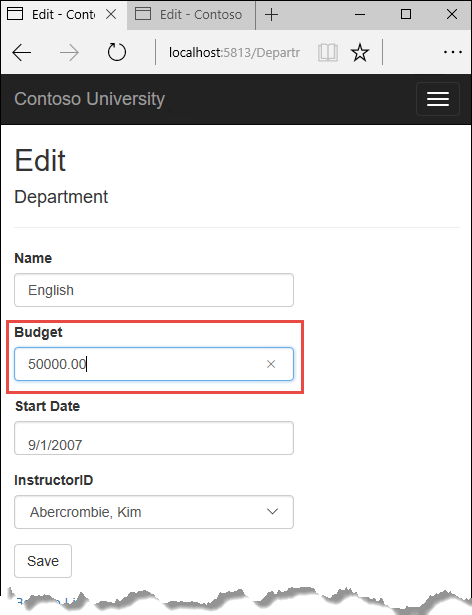
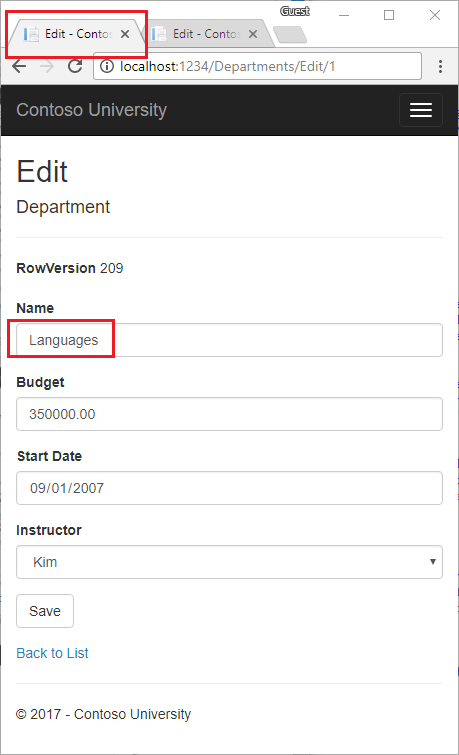
concur

diff --git a/aspnetcore/data/ef-rp/intro/samples/cu/Pages/Departments/Edit.cshtml.cs b/aspnetcore/data/ef-rp/intro/samples/cu/Pages/Departments/Edit.cshtml.cs
@@ -76,11 +76,11 @@ namespace ContosoUniversity.Pages.Departments
                 return await HandleDeletedDepartment();
             }
 
-            // OriginalValue is the current value in the DB when this entity
+            // OriginalValue is the value in the DB when this entity
             // was fetched. OriginalValue == rowVersion unless there is a 
             // concurrency difference. rowVersion is the value when this record
             // was fetched by OnGetAsync and can be stale at this point.
-            // Set .OriginalValue = rowVersion to detect a stale RowVersion,
+            // Set OriginalValue = rowVersion to detect a stale RowVersion,
             // indicating a concurrency problem. A second postback will make 
             // them match, unless a new concurrency issues happens.
             #region snippet_Org
@@ -94,6 +94,7 @@ namespace ContosoUniversity.Pages.Departments
                 "Department",
                 s => s.Name, s => s.StartDate, s => s.Budget, s => s.InstructorID))
             {
+                #region snippet_try
                 try
                 {
                     await _context.SaveChangesAsync();
@@ -120,6 +121,7 @@ namespace ContosoUniversity.Pages.Departments
                     // Must clear the model error for the next postback.
                     ModelState.Remove("Department.RowVersion");
                 }
+                #endregion
             }
 
             InstructorNameSL = new SelectList(_context.Instructors,
@@ -149,6 +151,7 @@ namespace ContosoUniversity.Pages.Departments
             Department.InstructorID = deletedDepartment.InstructorID;
         }
 
+        #region snippet_err
         private async Task setDbErrorMessage(Department dbValues,
                 Department clientValues, SchoolContext context)
         {
@@ -177,12 +180,13 @@ namespace ContosoUniversity.Pages.Departments
             }
 
             ModelState.AddModelError(string.Empty,
-                   "The record you attempted to edit "
-                 + "was modified by another user after you got the original value. The "
-                 + "edit operation was canceled and the current values in the database "
-                 + "have been displayed. If you still want to edit this record, click "
-                 + "the Save button again. Otherwise click the Back to List hyperlink.");
+                "The record you attempted to edit "
+              + "was modified by another user after you. The "
+              + "edit operation was canceled and the current values in the database "
+              + "have been displayed. If you still want to edit this record, click "
+              + "the Save button again.");
         }
+        #endregion
     }
 }
 #endregion

diff --git a/aspnetcore/data/ef-rp/concurrency.md b/aspnetcore/data/ef-rp/concurrency.md
@@ -201,88 +201,90 @@ Update the Index page:
 
 The following markup shows the updated page:
 
-[!code-html[](intro/samples/cu/Pages/Departments/Index.cshtml?highlight=5,8,29,47,50)]
+[!code-cshtml[](intro/samples/cu/Pages/Departments/Index.cshtml?highlight=5,8,29,47,50)]
 
 ### Update the Edit page model
 
 Update *pages\departments\edit.cshtml.cs* with the following code:
 
-[!code-csharp[](intro/samples/cu/Pages/Departments/Index.cshtml.cs?name=snippet)]
+[!code-csharp[](intro/samples/cu/Pages/Departments/Edit.cshtml.cs?name=snippet)]
 
 Examine the `OnPostAsync` signature:
 
-[!code-csharp[](intro/samples/cu/Pages/Departments/Index.cshtml.cs?name=snippet_sig)]
+[!code-csharp[](intro/samples/cu/Pages/Departments/Edit.cshtml.cs?name=snippet_sig)]
 
-The `rowVersion` parameter comes from `<input type="hidden" asp-for="Department.RowVersion" />` in the Razor page. The `rowVersion` parameter is the value when this entity was fetched in `OnGetAsync`. The Db `rowVersion` my differ if this entity has been updated
+The `rowVersion` parameter comes from `<input type="hidden" asp-for="Department.RowVersion" />` in the Razor page. The `rowVersion` parameter is the value when this entity was fetched in `OnGetAsync`. The DB `rowVersion` my differ if this entity has been updated
 after OnGetAsync is called. 
 
+Examine how the `rowVersion` parameter is used:
 
-In both the HttpGet `Edit` method and the `Details` method, add `AsNoTracking`. In the HttpGet `Edit` method, add eager loading for the Administrator.
+[!code-csharp[](intro/samples/cu/Pages/Departments/Edit.cshtml.cs?name=snippet_rv)]
 
-<!--
-[!code-csharp[Main](intro/samples/cu/Controllers/DepartmentsController.cs?name=snippet_EagerLoading&highlight=2,3)]
+`OriginalValue` is the value in the DB when this entity was fetched. `OriginalValue == rowVersion` unless there is a concurrency difference. `rowVersion` is the value when this record was fetched by `OnGetAsync` and can be stale at this point. Set `OriginalValue = rowVersion` to detect a stale `RowVersion`. A stale `RowVersion` indicates a concurrency problem. A second postback will make them match, unless a new concurrency issues happens.
 
-Replace the existing code for the HttpPost `Edit` method with the following code:
+To detect a concurrency issue, update [OriginalValue](https://docs.microsoft.com/en-us/dotnet/api/microsoft.entityframeworkcore.changetracking.propertyentry.originalvalue?view=efcore-2.0#Microsoft_EntityFrameworkCore_ChangeTracking_PropertyEntry_OriginalValue) with the `rowVersion` value when the entity was fetched.
 
-[!code-csharp[Main](intro/samples/cu/Controllers/DepartmentsController.cs?name=snippet_EditPost)]
+[!code-csharp[](intro/samples/cu/Pages/Departments/Edit.cshtml.cs?name=snippet_Org)]
 
-The code begins by trying to read the department to be updated. If the `SingleOrDefaultAsync` method returns null, the department was deleted by another user. In that case the code uses the posted form values to create a department entity so that the Edit page can be redisplayed with an error message. As an alternative, you wouldn't have to re-create the department entity if you display only an error message without redisplaying the department fields.
+`SaveChangesAsync` creates a SQL UPDATE command. The SQL UPDATE command includes a WHERE clause for a row containing the `RowVersion` value. If no rows match the WHERE command,  EF throws a `DbUpdateConcurrencyException` exception.
 
-The view stores the fetched `RowVersion` value in a hidden field, and this method receives that value in the `rowVersion` parameter. Before you call `SaveChanges`, you have to put that fetched `RowVersion` property value in the [OriginalValue](https://docs.microsoft.com/en-us/dotnet/api/microsoft.entityframeworkcore.changetracking.propertyentry.originalvalue?view=efcore-2.0#Microsoft_EntityFrameworkCore_ChangeTracking_PropertyEntry_OriginalValue) collection for the entity.
+The following code gets the client values (the values posted to this method) and the DB values:
 
-```csharp
-_context.Entry(departmentToUpdate).Property("RowVersion").OriginalValue = rowVersion;
-```
+[!code-csharp[](intro/samples/cu/Pages/Departments/Edit.cshtml.cs?name=snippet_try&highlight=9,18)]
 
-Then when EF creates a SQL UPDATE command, that command will include a WHERE clause that looks for a row that has the fetched `RowVersion` value. If no rows are affected by the UPDATE command (no rows have the fetched `RowVersion` value),  EF throws a `DbUpdateConcurrencyException` exception.
+The follwing code adds a custom error message for each column that has DB values different from what was posted to `OnPostAsync`:
 
-The code in the catch block for that exception gets the affected Department entity that has the updated values from the `Entries` property on the exception object.
+[!code-csharp[](intro/samples/cu/Pages/Departments/Edit.cshtml.cs?name=snippet_err)]
 
-[!code-csharp[Main](intro/samples/cu/Controllers/DepartmentsController.cs?range=164)]
+The following highlighted code sets the `RowVersion` value to the new value retrieved from the DB. This new `RowVersion` value will be stored in the hidden field when the Edit page is redisplayed, and the next time the user clicks **Save**, only concurrency errors that happen since the redisplay of the Edit page will be caught.
 
-The `Entries` collection will have just one `EntityEntry` object.  You can use that object to get the new values entered by the user and the current DB values.
+[!code-csharp[](intro/samples/cu/Pages/Departments/Edit.cshtml.cs?name=snippet_try&highlight=23)]
 
-[!code-csharp[Main](intro/samples/cu/Controllers/DepartmentsController.cs?range=165-166)]
+The `ModelState.Remove` statement is required because `ModelState` has the old `RowVersion` value. In the Razor Page, the `ModelState` value for a field takes precedence over the model property values when both are present.
 
-The code adds a custom error message for each column that has DB values different from what the user entered on the Edit page (only one field is shown here for brevity).
+## Update the Edit page
 
-[!code-csharp[Main](intro/samples/cu/Controllers/DepartmentsController.cs?range=174-178)]
+Update *Pages/Departments/Edit.cshtml* with the following markup:
 
-Finally, the code sets the `RowVersion` value of the `departmentToUpdate` to the new value retrieved from the DB. This new `RowVersion` value will be stored in the hidden field when the Edit page is redisplayed, and the next time the user clicks **Save**, only concurrency errors that happen since the redisplay of the Edit page will be caught.
+[!code-cshtml[](intro/samples/cu/Pages/Departments/Edit.cshtml?highlight=14,17-21,41-42)]
 
-[!code-csharp[Main](intro/samples/cu/Controllers/DepartmentsController.cs?range=199-200)]
+The preceding markup:
 
-The `ModelState.Remove` statement is required because `ModelState` has the old `RowVersion` value. In the view, the `ModelState` value for a field takes precedence over the model property values when both are present.
+* Adds a hidden field to post `RowVersion`.
+* Displays the last byte of `RowVersion` for debugging purposes.
+* Replaces `ViewData` with the strongly typed `InstructorNameSL`.
 
-## Update the Department Edit view
 
-In *Views/Departments/Edit.cshtml*, make the following changes:
+## Test concurrency conflicts with the Edit page
 
-* Add a hidden field to save the `RowVersion` property value, immediately following the hidden field for the `DepartmentID` property.
+Open two browsers instances of Edit on the English department:
 
-* Add a "Select Administrator" option to the drop-down list.
+* Run the app and select Departments. 
+* Right-click the **Edit** hyperlink for the English department and select **Open in new tab**.
+* Click the **Edit** hyperlink for the English department. 
 
-[!code-html[Main](intro/samples/cu/Views/Departments/Edit.cshtml?highlight=16,34-36)]
+The two browser tabs display the same information.
 
-## Test concurrency conflicts in the Edit page
-
-Run the app and go to the Departments Index page. Right-click the **Edit** hyperlink for the English department and select **Open in new tab**, then click the **Edit** hyperlink for the English department. The two browser tabs now display the same information.
-
-Change a field in the first browser tab and click **Save**.
+Change the name in the first browser tab and click **Save**.
 
 ![Department Edit page 1 after change](concurrency/_static/edit-after-change-1.png)
 
-The browser shows the Index page with the changed value.
+The browser shows the Index page with the changed value and updated rowVersion indicator. Note the updated rowVersion indicator, it will be displayed on the second postback in the other tab.
 
-Change a field in the second browser tab.
+Change a different field in the second browser tab.
 
 ![Department Edit page 2 after change](concurrency/_static/edit-after-change-2.png)
 
-Click **Save**. You see an error message:
+Click **Save**. You see error messages for all fields that don't match the DB values:
 
 ![Department Edit page error message](concurrency/_static/edit-error.png)
 
-Click **Save** again. The value you entered in the second browser tab is saved. You see the saved values when the Index page appears.
+This browser window did not intend to change the Name field. Copy and paste the current value (Languages) into the Name field. Tab out. Client side validation removes the error message.
+
+![Department Edit page error message](concurrency/_static/cv.png)
+
+Click **Save** again. The value you entered in the second browser tab is saved. You see the saved values in the Index page.
+
 
 ## Update the Delete page
 
@@ -292,6 +294,7 @@ For the Delete page, EF detects concurrency conflicts caused by someone else edi
 
 In *DepartmentsController.cs*, replace the HttpGet `Delete` method with the following code:
 
+<!--
 [!code-csharp[Main](intro/samples/cu/Controllers/DepartmentsController.cs?name=snippet_DeleteGet&highlight=1,10,14-17,21-29)]
 
 The method accepts an optional parameter that indicates whether the page is being redisplayed after a concurrency error. If this flag is true and the department specified no longer exists, it was deleted by another user. In that case, the code redirects to the Index page.  If this flag is true and the Department does exist, it was changed by another user. In that case, the code sends an error message to the view using `ViewData`.  
@@ -323,7 +326,7 @@ If a concurrency error is caught, the code redisplays the Delete confirmation pa
 
 In *Views/Departments/Delete.cshtml*, replace the scaffolded code with the following code that adds an error message field and hidden fields for the DepartmentID and RowVersion properties. The changes are highlighted.
 
-[!code-html[Main](intro/samples/cu/Views/Departments/Delete.cshtml?highlight=9,38,44,45,48)]
+[!code-cshtml[Main](intro/samples/cu/Views/Departments/Delete.cshtml?highlight=9,38,44,45,48)]
 
 This makes the following changes:
 
@@ -353,11 +356,11 @@ You can optionally clean up scaffolded code in the Details and Create views.
 
 Replace the code in *Views/Departments/Details.cshtml* to delete the RowVersion column and show the full name of the Administrator.
 
-[!code-html[Main](intro/samples/cu/Views/Departments/Details.cshtml?highlight=35)]
+[!code-cshtml[Main](intro/samples/cu/Views/Departments/Details.cshtml?highlight=35)]
 
 Replace the code in *Views/Departments/Create.cshtml* to add a Select option to the drop-down list.
 
-[!code-html[Main](intro/samples/cu/Views/Departments/Create.cshtml?highlight=32-34)]
+[!code-cshtml[Main](intro/samples/cu/Views/Departments/Create.cshtml?highlight=32-34)]
 
 ## Summary
 

diff --git a/aspnetcore/data/ef-rp/sort-filter-page.md b/aspnetcore/data/ef-rp/sort-filter-page.md
@@ -75,7 +75,7 @@ The method uses LINQ to Entities to specify the column to sort by. The code init
 
 Replace the code in *Students/Index.cshtml*, with the following highlighted code:
 
-[!code-html[](intro/samples/cu/Pages/Students/Index2.cshtml?highlight=17-19,25-27)]
+[!code-cshtml[](intro/samples/cu/Pages/Students/Index2.cshtml?highlight=17-19,25-27)]
 
 The preceding code:
 
@@ -131,7 +131,7 @@ There is a performance penalty for calling `ToUpper`. The `ToUpper` code adds a 
 
 In *Views/Student/Index.cshtml*, add the following highlighted code to create a **Search** button and assorted chrome.
 
-[!code-html[](intro/samples/cu/Pages/Students/Index3.cshtml?highlight=14-23&range=1-25)]
+[!code-cshtml[](intro/samples/cu/Pages/Students/Index3.cshtml?highlight=14-23&range=1-25)]
 
 The preceding code uses the `<form>` [tag helper](xref:mvc/views/tag-helpers/intro) to add the search text box and button. By default, the `<form>` tag helper submits form data with a POST. With POST, the parameters are passed in the HTTP message body and not in the URL. When HTTP GET is used, the form data is passed in the URL as query strings. Passing the data with query strings enables users to bookmark the URL. The [W3C guidelines](https://www.w3.org/2001/tag/doc/whenToUseGet.html) recommend that GET should be used when the action does not result in an update.
 
@@ -209,15 +209,15 @@ The two question marks in `PaginatedList.CreateAsync` represent the [null-coales
 
 Update the markup in *Students/Index.cshtml*. The changes are highlighted:
 
-[!code-html[](intro/samples/cu/Pages/Students/Index.cshtml?highlight=28-31,37-40,68-)]
+[!code-cshtml[](intro/samples/cu/Pages/Students/Index.cshtml?highlight=28-31,37-40,68-)]
 
 The column header links use the query string to pass the current search string to the `OnGetAsync` method so that the user can sort within filter results:
 
-[!code-html[](intro/samples/cu/Pages/Students/Index.cshtml?range=28-31)]
+[!code-cshtml[](intro/samples/cu/Pages/Students/Index.cshtml?range=28-31)]
 
 The paging buttons are displayed by tag helpers:
 
-[!code-html[](intro/samples/cu/Pages/Students/Index.cshtml?range=72-)]
+[!code-cshtml[](intro/samples/cu/Pages/Students/Index.cshtml?range=72-)]
 
 Run the app and navigate to the students page.
 
@@ -263,7 +263,7 @@ Note: The LINQ `group` command isn't currently supported by EF Core. In the prec
 
 Replace the code in the *Views/Home/About.cshtml* file with the following code:
 
-[!code-html[](intro/samples/cu/Pages/About.cshtml)]
+[!code-cshtml[](intro/samples/cu/Pages/About.cshtml)]
 
 Run the app and navigate to the About page. The count of students for each enrollment date is displayed in a table.
 

diff --git a/aspnetcore/data/ef-rp/read-related-data.md b/aspnetcore/data/ef-rp/read-related-data.md
@@ -106,7 +106,7 @@ The preceding code adds `AsNoTracking`. `AsNoTracking` improves performance beca
 
 Update *Views/Courses/Index.cshtml* with the following highlighted markup:
 
-[!code-html[](intro/samples/cu/Pages/Courses/Index.cshtml?highlight=4,7,15-17,34-36,44)]
+[!code-cshtml[](intro/samples/cu/Pages/Courses/Index.cshtml?highlight=4,7,15-17,34-36,44)]
 
 The following changes have been made to the scaffolded code:
 
@@ -200,7 +200,7 @@ The query has two includes:
 
 Update *Pages/Instructors/Index.cshtml* with the following markup:
 
-[!code-html[](intro/samples/cu/Pages/Instructors/IndexRRD.cshtml?range=1-65&highlight=1,5,8,16-21,25-32,43-57)]
+[!code-cshtml[](intro/samples/cu/Pages/Instructors/IndexRRD.cshtml?range=1-65&highlight=1,5,8,16-21,25-32,43-57)]
 
 The preceding markup makes the following changes:
 
@@ -278,7 +278,7 @@ The following code populates the view model's `Enrollments` property when a cour
 
 Add the following markup to the end of the *Pages/Courses/Index.cshtml* Razor Page:
 
-[!code-html[](intro/samples/cu/Pages/Instructors/IndexRRD.cshtml?range=60-102&highlight=7-)]
+[!code-cshtml[](intro/samples/cu/Pages/Instructors/IndexRRD.cshtml?range=60-102&highlight=7-)]
 
 The preceding markup displays a list of courses related to an instructor when an instructor is selected.
 
@@ -296,7 +296,7 @@ Update the query in the `OnGetAsync` method in *Pages/Instructors/Index.cshtml.c
 
 Update *Pages/Instructors/Index.cshtml*. Add the following markup to the end of the file:
 
-[!code-html[](intro/samples/cu/Pages/Instructors/IndexRRD.cshtml?range=103-)]
+[!code-cshtml[](intro/samples/cu/Pages/Instructors/IndexRRD.cshtml?range=103-)]
 
 The preceding markup displays a list of the students who are enrolled in the selected course.
 

diff --git a/aspnetcore/data/ef-rp/intro.md b/aspnetcore/data/ef-rp/intro.md
@@ -67,11 +67,11 @@ Open *Pages/_Layout.cshtml* and make the following changes:
 
 The changes are highlighted.
 
-[!code-html[](intro/samples/cu/Pages/_Layout.cshtml?highlight=6,29,35-39,47&range=1-50)]
+[!code-cshtml[](intro/samples/cu/Pages/_Layout.cshtml?highlight=6,29,35-39,47&range=1-50)]
 
 In *Views/Home/Index.cshtml*, replace the contents of the file with the following code to replace the text about ASP.NET and MVC with text about this app:
 
-[!code-html[](intro/samples/cu/Pages/Index.cshtml)]
+[!code-cshtml[](intro/samples/cu/Pages/Index.cshtml)]
 
 Press CTRL+F5 to run the project. The home page is displayed with tabs created in the following tutorials:
 
